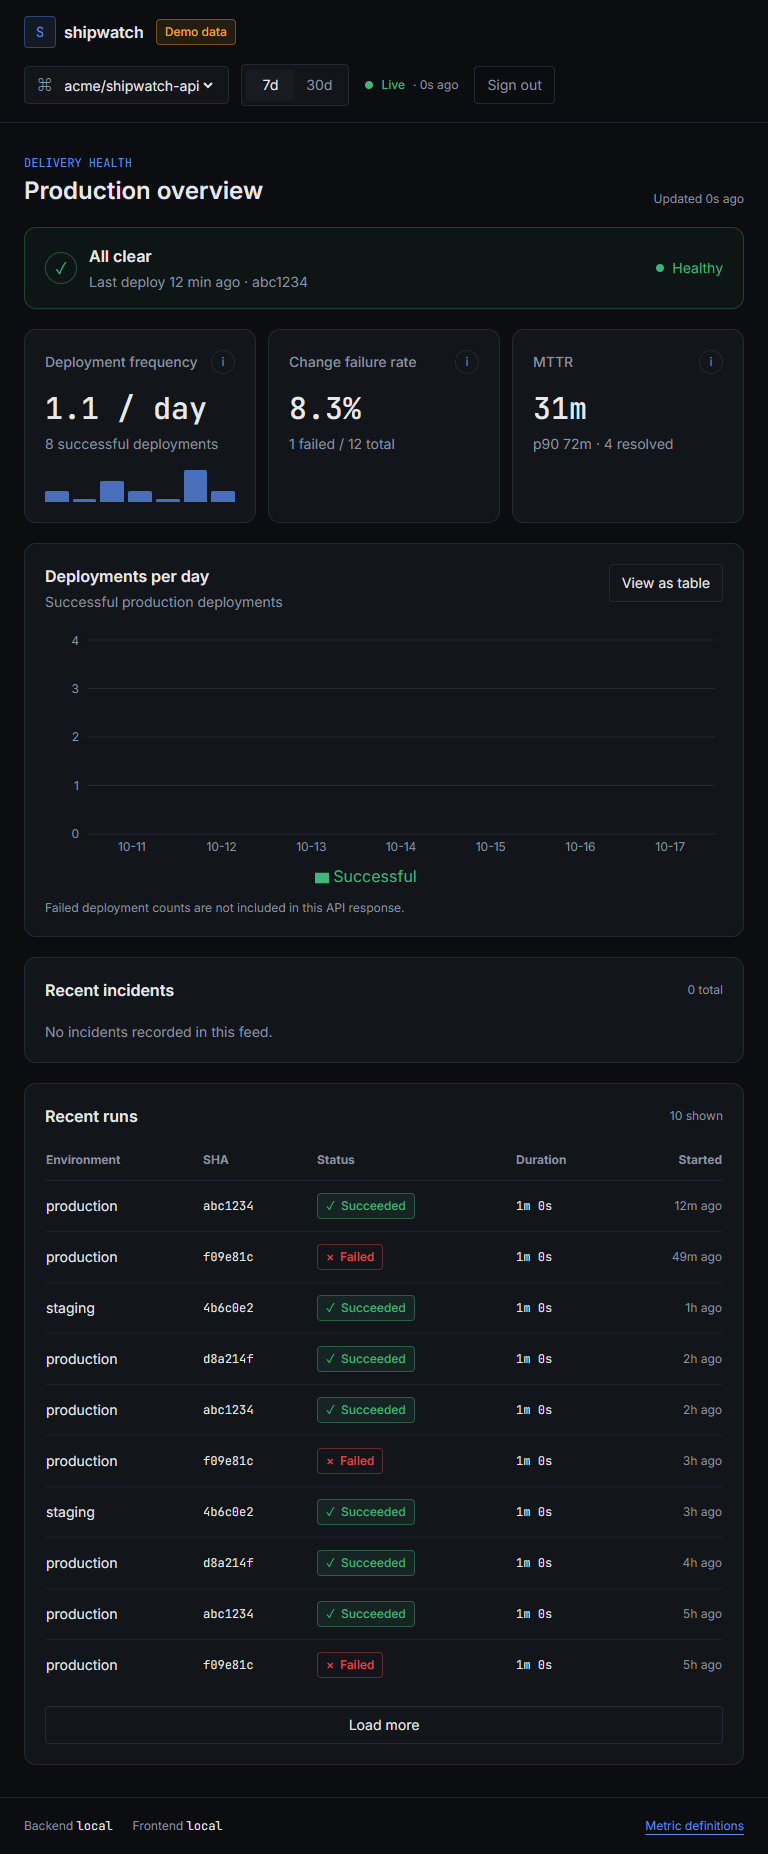
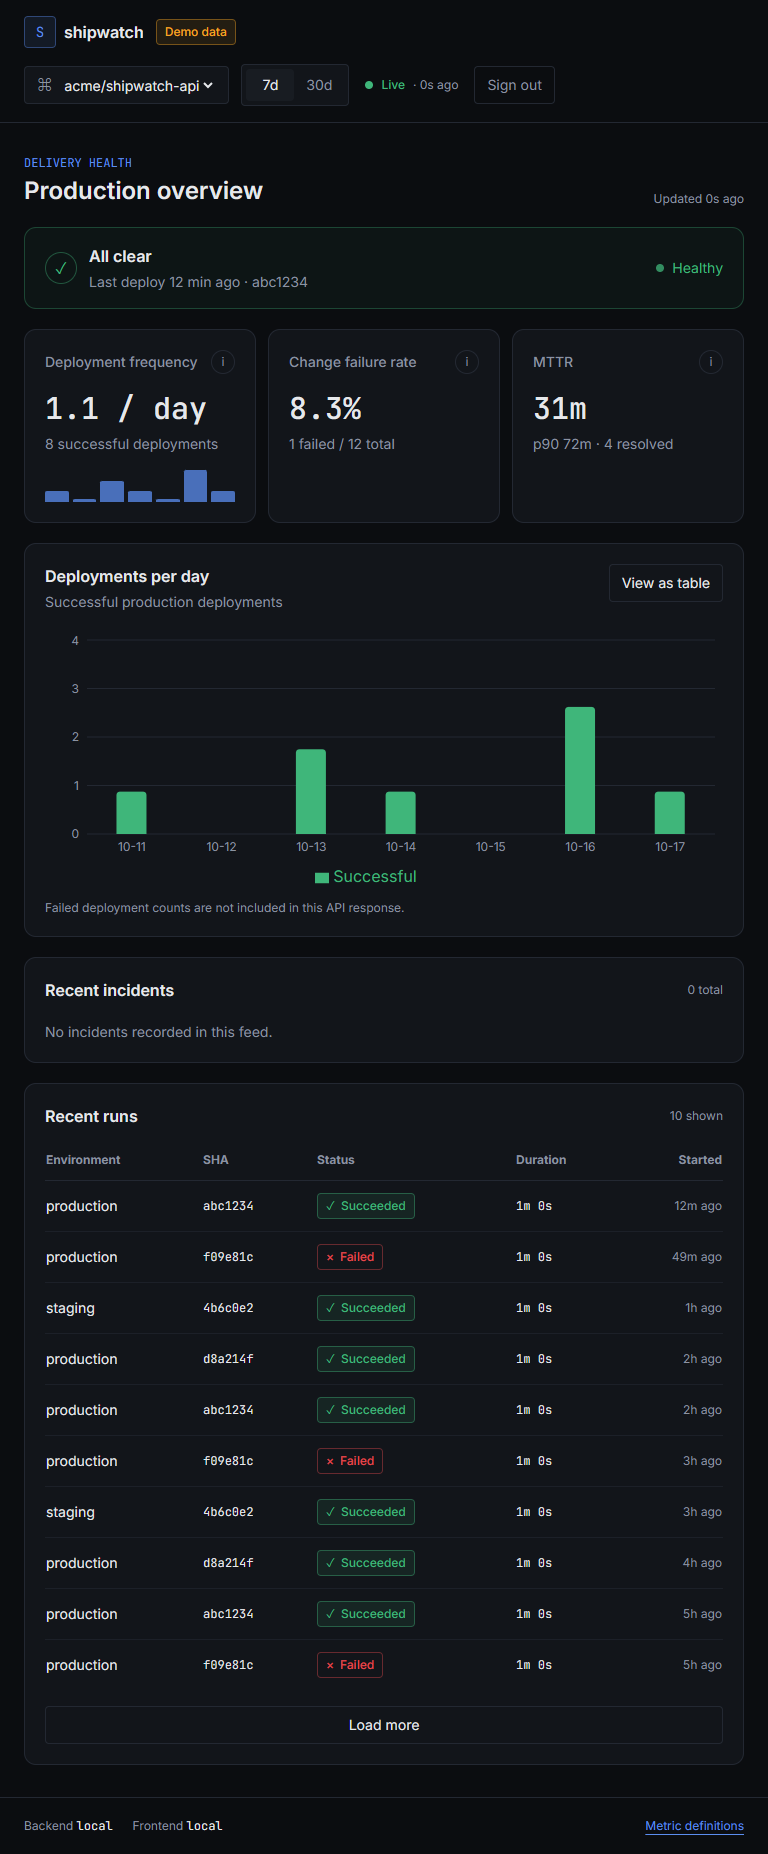
feat: update incident display in StatusHero for clarity and consistency

diff --git a/frontend/src/components/StatusHero.tsx b/frontend/src/components/StatusHero.tsx
@@ -12,7 +12,7 @@ export function StatusHero({ incidents, runs, productionEnvironment }: { inciden
   const successfulRun = runs.find((run) => run.environment === productionEnvironment && run.state === "success");
   return openIncident ? (
     <section aria-live="polite" className="flex flex-wrap items-center justify-between gap-3 rounded-console border border-danger/40 bg-danger/10 px-5 py-4">
-      <div className="flex items-center gap-3"><span aria-hidden="true" className="grid h-8 w-8 place-items-center rounded-full border border-danger/50 text-danger">!</span><div><p className="font-semibold text-danger">Production incident open for {ageLabel(openIncident.ageSeconds)}</p><p className="mt-1 text-sm text-muted">{openIncident.environment} is affected{failedRun?.sha ? ` · failing ${failedRun.sha.slice(0, 7)}` : ""}</p></div></div>
+      <div className="flex items-center gap-3"><span aria-hidden="true" className="grid h-8 w-8 place-items-center rounded-full border border-danger/50 text-danger">!</span><div><p className="font-semibold text-danger">Production incident open for {ageLabel(openIncident.ageSeconds)}</p><p className="mt-1 text-sm text-muted">{openIncident.environment} is affected{failedRun?.sha ? ` · latest failed SHA: ${failedRun.sha.slice(0, 7)}` : " · failed SHA unavailable"}</p></div></div>
       <a className="text-sm font-medium text-danger underline underline-offset-4" href="#recent-incidents">View incident <span aria-hidden="true">↗</span></a>
     </section>
   ) : (

diff --git a/frontend/e2e/dashboard.spec.ts b/frontend/e2e/dashboard.spec.ts
@@ -41,7 +41,7 @@ test("incident and empty demo variants stay isolated from the API", async ({ pag
   await page.goto("/?demo=incident");
   await expect(page.getByText("Demo data")).toBeVisible();
   await expect(page.getByText(/Production incident open for/)).toBeVisible();
-  await expect(page.getByText("production is affected · failing f09e81c")).toBeVisible();
+  await expect(page.getByText("production is affected · latest failed SHA: f09e81c")).toBeVisible();
   await page.goto("/?demo=empty");
   await expect(page.getByText("No data in this window").first()).toBeVisible();
   await expect(page.getByText("Your delivery data will appear here")).toBeVisible();
